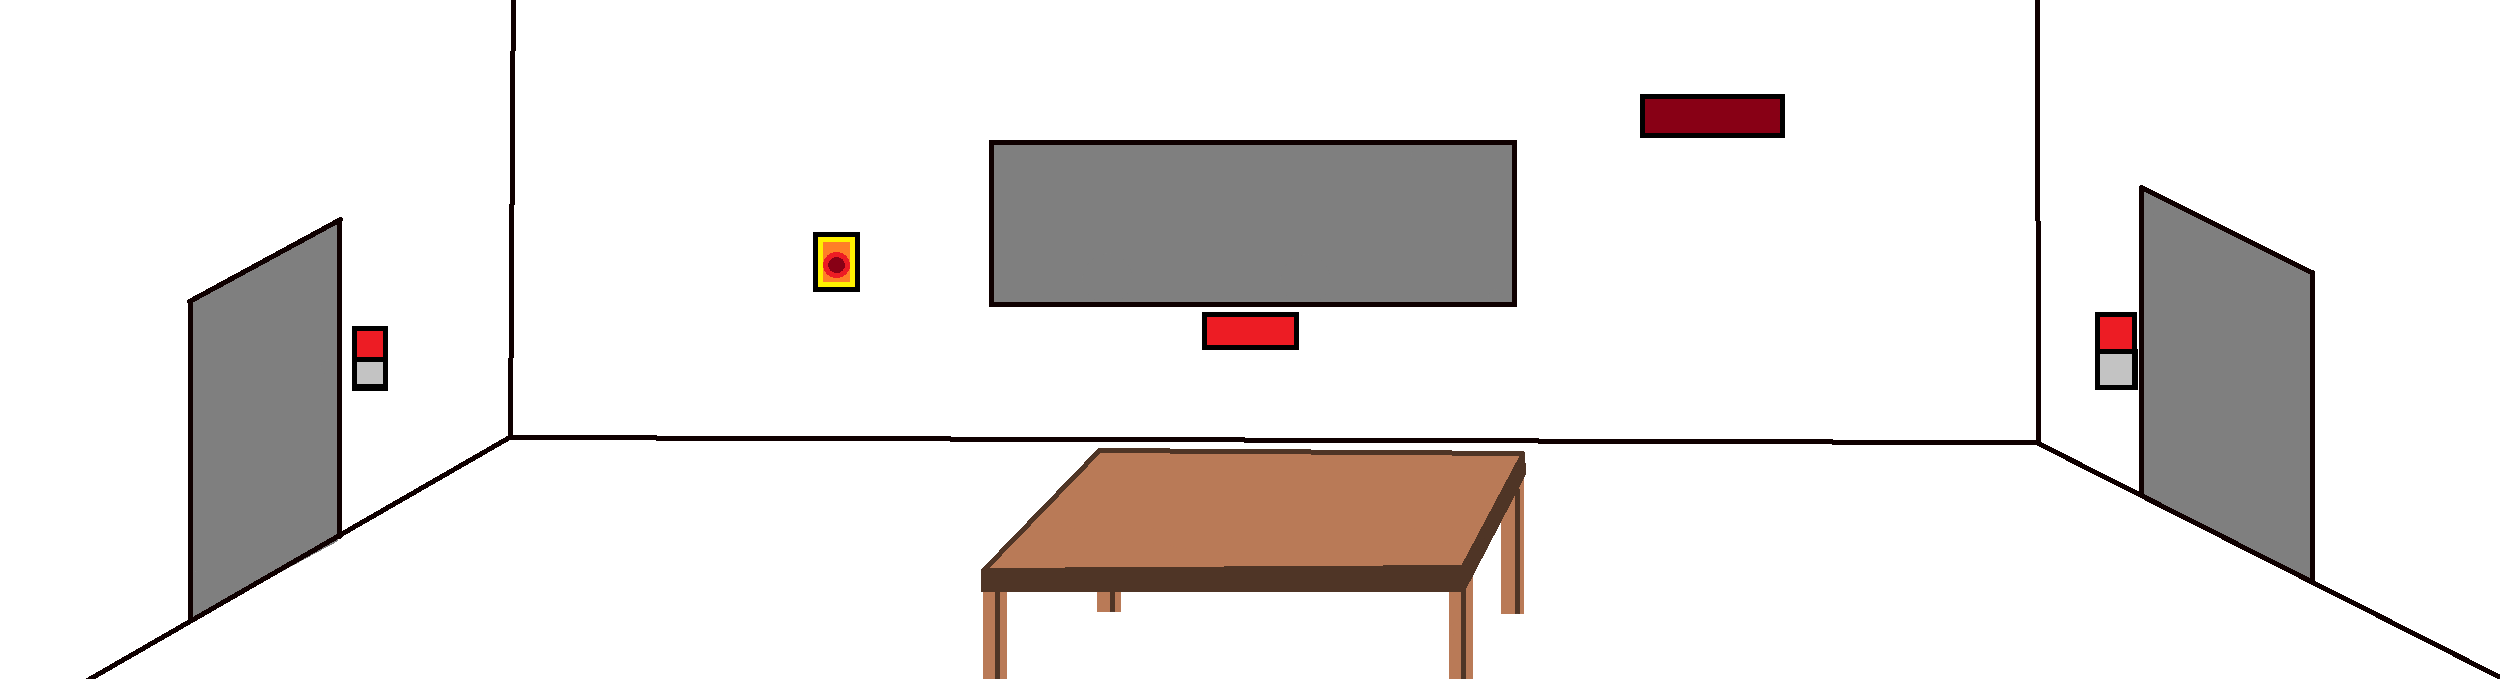
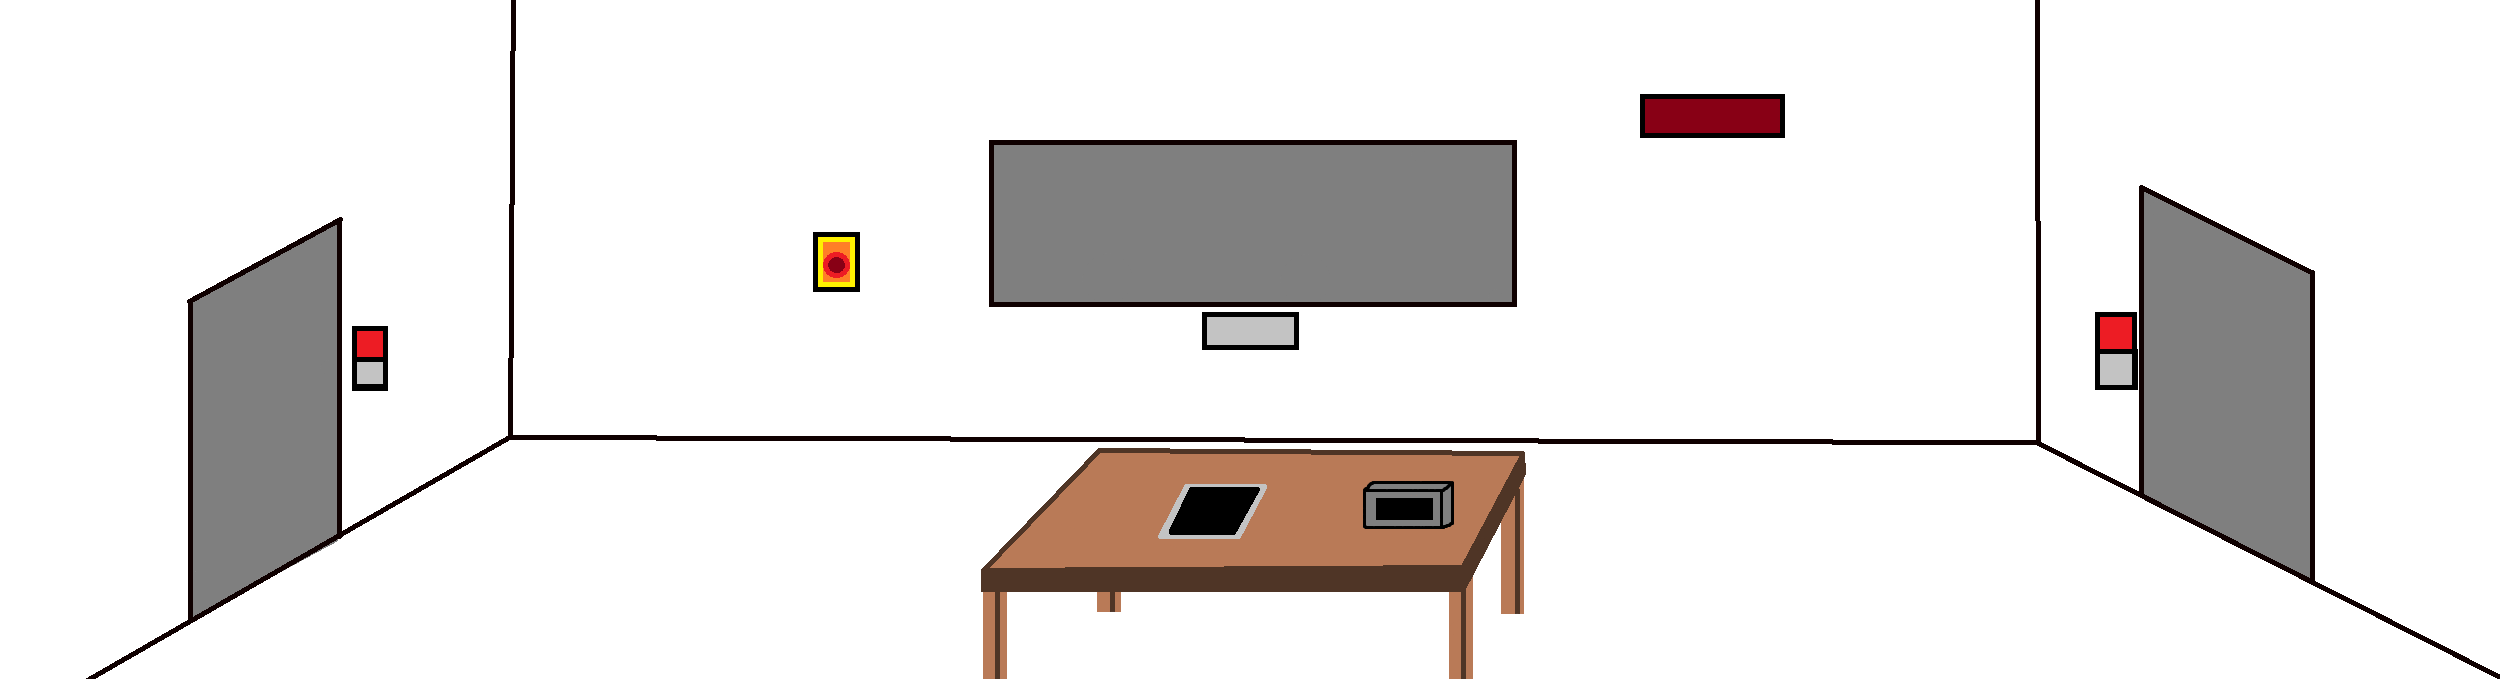
"Refactored Five Nights game component, updated routes and constants, and modified CSS and HTML files."

Changed region(s): [[0.468, 0.7113, 0.5928, 0.8041], [0.468, 0.4639, 0.5304, 0.5258]]

diff --git a/src/app/games/five nights/five-nights-1/five-nights-1.component.ts b/src/app/games/five nights/five-nights-1/five-nights-1.component.ts
@@ -26,6 +26,7 @@ export class FiveNights1Component implements OnInit, OnDestroy {
   camaras = { x: 1102, y: 660, width: 350, height: 150 };
   camarasOpened = { x: 1102, y: 660, width: 350, height: 150 };
   reloj = { x: 1642, y: 100, width: 142, height: 40 };
+  bateria = { x: 1387, y: 538, width: 35, height: 35 };
 
   timeString: string = '12:00';
   timeNumber: number = 0;
@@ -34,10 +35,29 @@ export class FiveNights1Component implements OnInit, OnDestroy {
   cameraOpen: boolean = false;
   cameraNumber: number = 0;
 
+  totalBattery: number = 100;
+  batteryLeft: number = 100;
+  bateryUsageNumber: number = 1;
+  batteryOut: boolean = false;
+
+  TIME_MILISECONDS:number = 1000; 
+  BATTERY_MILISECONDS:number = 5000; // 20% restante a 1000ms 
+  LIGHT_CONSUME_TIME:number = 0.1
+  DOOR_CLOSE_CONSUME_TIME:number = 0.25
+
   doors = {
-    rightDoor: false,
-    leftDoor: false,
-    centralDoor: false
+    rightDoor: {
+      opened: false,
+      light: false
+    },
+    leftDoor: {
+      opened: false,
+      light: false
+    },
+    centralDoor: {
+      opened: false,
+      light: false
+    }
   }
 
   private oficinaElement!: HTMLElement;
@@ -77,7 +97,10 @@ export class FiveNights1Component implements OnInit, OnDestroy {
     this.timeString = '12:00';
     this.timeNumber = 0;
     this.cameraNumber = 0;
+    this.batteryLeft = this.totalBattery;
+    this.batteryOut = false;
     this._startTimeCounting();
+    this._startBatteryLoss();
     this._startMouseMovement();
   }
 
@@ -93,11 +116,11 @@ export class FiveNights1Component implements OnInit, OnDestroy {
   useButtonDoor(doorId: number) {
     switch (doorId) {
       case 1:
-        this.doors.leftDoor = !this.doors.leftDoor
+        this.doors.leftDoor.opened = !this.doors.leftDoor.opened
 
         break;
       case 2:
-        this.doors.rightDoor = !this.doors.rightDoor
+        this.doors.rightDoor.opened = !this.doors.rightDoor.opened
         
         break;
     }
@@ -106,15 +129,15 @@ export class FiveNights1Component implements OnInit, OnDestroy {
   lightButtonDoor(doorId: number) {
     switch (doorId) {
       case 1:
-        this.doors.leftDoor = !this.doors.leftDoor
+        this.doors.leftDoor.light = !this.doors.leftDoor.light
 
         break;
       case 2:
-        this.doors.rightDoor = !this.doors.rightDoor
+        this.doors.rightDoor.light = !this.doors.rightDoor.light
         
         break;
       case 3:
-        this.doors.centralDoor = !this.doors.centralDoor
+        this.doors.centralDoor.light = !this.doors.centralDoor.light
         
         break;
     }
@@ -123,7 +146,10 @@ export class FiveNights1Component implements OnInit, OnDestroy {
   private _startTimeCounting() {
     setInterval(() => {
       this._timeIntervalToTimeString();
-    }, 1000);
+      if(this.timeString == '06:00') {
+        this.finishGame();
+      }
+    }, this.TIME_MILISECONDS);
   }
 
   private _startMouseMovement() {
@@ -203,5 +229,43 @@ export class FiveNights1Component implements OnInit, OnDestroy {
     if (event.key == 'W' || event.key == 'w') {
       this.openCamera();
     }
+  }
+
+  private _startBatteryLoss() {
+    const intervalId = setInterval(() => {
+      this.batteryLeft--;
+
+      let totalConsumption = 0;
+
+      // Sumar el consumo por puertas abiertas
+      if (this.doors.leftDoor.opened) {
+        totalConsumption += this.DOOR_CLOSE_CONSUME_TIME;
+      }
+      
+      if (this.doors.rightDoor.opened) {
+        totalConsumption += this.DOOR_CLOSE_CONSUME_TIME;
+      }
+      
+      // Sumar el consumo por luces encendidas
+      if (this.doors.leftDoor.light) {
+        totalConsumption += this.LIGHT_CONSUME_TIME;
+      }
+      
+      if (this.doors.rightDoor.light) {
+        totalConsumption += this.LIGHT_CONSUME_TIME;
+      }
+      
+      if (this.doors.centralDoor.light) {
+        totalConsumption += this.LIGHT_CONSUME_TIME;
+      }
+      
+      this.batteryLeft -= totalConsumption;
+      
+  
+      if (this.batteryLeft <= 0) {
+        this.batteryOut = true;
+        clearInterval(intervalId);
+      }
+    }, this.BATTERY_MILISECONDS);
   }
 }

diff --git a/src/app/games/five nights/five-nights-1/five-nights-1.component.html b/src/app/games/five nights/five-nights-1/five-nights-1.component.html
@@ -13,7 +13,17 @@
 
     <!-- Zona clicable -->
     <div
+      *ngIf="doors.leftDoor.opened"
       class="click-area opened"
+      (click)="useButtonDoor(1)"
+      [style.left.px]="puerta1.x"
+      [style.top.px]="puerta1.y"
+      [style.width.px]="puerta1.width"
+      [style.height.px]="puerta1.height"
+    ></div>
+    <div
+      *ngIf="!doors.leftDoor.opened"
+      class="click-area closed"
       (click)="useButtonDoor(1)"
       [style.left.px]="puerta1.x"
       [style.top.px]="puerta1.y"
@@ -22,6 +32,16 @@
     ></div>
 
     <div
+      *ngIf="doors.leftDoor.light"
+      class="click-area lights-on"
+      (click)="lightButtonDoor(1)"
+      [style.left.px]="puerta1Luz.x"
+      [style.top.px]="puerta1Luz.y"
+      [style.width.px]="puerta1Luz.width"
+      [style.height.px]="puerta1Luz.height"
+    ></div>
+    <div
+      *ngIf="!doors.leftDoor.light"
       class="click-area lights-off"
       (click)="lightButtonDoor(1)"
       [style.left.px]="puerta1Luz.x"
@@ -31,6 +51,16 @@
     ></div>
 
     <div
+      *ngIf="doors.rightDoor.opened"
+      class="click-area opened"
+      (click)="useButtonDoor(2)"
+      [style.left.px]="puerta2.x"
+      [style.top.px]="puerta2.y"
+      [style.width.px]="puerta2.width"
+      [style.height.px]="puerta2.height"
+    ></div>
+    <div
+      *ngIf="!doors.rightDoor.opened"
       class="click-area closed"
       (click)="useButtonDoor(2)"
       [style.left.px]="puerta2.x"
@@ -40,7 +70,17 @@
     ></div>
 
     <div
+      *ngIf="doors.rightDoor.light"
       class="click-area lights-on"
+      (click)="lightButtonDoor(2)"
+      [style.left.px]="puerta2Luz.x"
+      [style.top.px]="puerta2Luz.y"
+      [style.width.px]="puerta2Luz.width"
+      [style.height.px]="puerta2Luz.height"
+    ></div>
+    <div
+      *ngIf="!doors.rightDoor.light"
+      class="click-area lights-off"
       (click)="lightButtonDoor(2)"
       [style.left.px]="puerta2Luz.x"
       [style.top.px]="puerta2Luz.y"
@@ -49,6 +89,16 @@
     ></div>
 
     <div
+      *ngIf="doors.centralDoor.light"
+      class="click-area lights-on"
+      (click)="lightButtonDoor(3)"
+      [style.left.px]="pasilloLuz.x"
+      [style.top.px]="pasilloLuz.y"
+      [style.width.px]="pasilloLuz.width"
+      [style.height.px]="pasilloLuz.height"
+    ></div>
+    <div
+      *ngIf="!doors.centralDoor.light"
       class="click-area lights-off"
       (click)="lightButtonDoor(3)"
       [style.left.px]="pasilloLuz.x"
@@ -58,13 +108,23 @@
     ></div>
 
     <div
-      class="click-area"
+      class="camera-click-area"
       (click)="openCamera()"
       [style.left.px]="camaras.x"
       [style.top.px]="camaras.y"
       [style.width.px]="camaras.width"
       [style.height.px]="camaras.height"
     ></div>
+
+    <div
+      class="bateria"
+      [style.left.px]="bateria.x"
+      [style.top.px]="bateria.y"
+      [style.width.px]="bateria.width"
+      [style.height.px]="bateria.height"
+    >
+      {{ batteryLeft.toFixed(2) }}
+    </div>
 
     <div
       class="reloj"
@@ -95,7 +155,7 @@
     <div *ngIf="cameraNumber == 1"></div>
 
     <div
-      class="click-area"
+      class="camera-click-area"
       (click)="openCamera()"
       [style.left.px]="camarasOpened.x"
       [style.top.px]="camarasOpened.y"

diff --git a/src/app/games/five nights/five-nights-1/five-nights-1.component.css b/src/app/games/five nights/five-nights-1/five-nights-1.component.css
@@ -23,34 +23,61 @@
   padding: 10px;
 }
 
-.modal-camaras{
+.modal-camaras {
   width: 100%;
   height: 100%;
 }
 
+.camera-click-area,
 .click-area,
+.bateria,
 .reloj {
   position: absolute;
 }
 
-.click-area {
+.click-area,
+.camera-click-area {
   cursor: pointer;
 }
 
+.camera-click-area {
+  background: rgba(95, 95, 95, 0.449);
+}
+
 .opened {
-  background: rgba(51, 255, 0, 0.615); /* O "rgba(0,0,0,0)" para mayor compatibilidad */
+  background: rgba(
+    51,
+    255,
+    0,
+    0.615
+  ); /* O "rgba(0,0,0,0)" para mayor compatibilidad */
 }
 
 .closed {
-  background: rgba(255, 0, 0, 0.615); /* O "rgba(0,0,0,0)" para mayor compatibilidad */
+  background: rgba(
+    255,
+    0,
+    0,
+    0.615
+  ); /* O "rgba(0,0,0,0)" para mayor compatibilidad */
 }
 
-.lights-on{
-  background: rgba(206, 206, 206, 0.884); /* O "rgba(0,0,0,0)" para mayor compatibilidad */
+.lights-on {
+  background: rgba(
+    206,
+    206,
+    206,
+    0.884
+  ); /* O "rgba(0,0,0,0)" para mayor compatibilidad */
 }
 
-.lights-off{
-  background: rgba(206, 206, 206, 0.214); /* O "rgba(0,0,0,0)" para mayor compatibilidad */
+.lights-off {
+  background: rgba(
+    206,
+    206,
+    206,
+    0.214
+  ); /* O "rgba(0,0,0,0)" para mayor compatibilidad */
 }
 
 .reloj {
@@ -62,7 +89,16 @@
   font-family: fantasy;
 }
 
-.modal-camaras{
+.bateria {
+  display: flex;
+  color: yellow;
+  align-items: center;
+  justify-content: center;
+  font-size: 23px;
+  font-family: fantasy;
+}
+
+.modal-camaras {
   height: auto;
   width: 100%;
 }

diff --git a/src/app/app.routes.ts b/src/app/app.routes.ts
@@ -4,7 +4,7 @@ import { LolWordleGameComponent } from './games/league of legends/lol-wordle-gam
 import { BlackJackComponent } from './games/casino/black-jack/black-jack.component';
 import { TragaperrasComponent } from './games/casino/tragaperras/tragaperras.component';
 import { FiveNights1Component } from './games/five nights/five-nights-1/five-nights-1.component';
-import { GLOBAL_CONSTANTES } from './five-nights-constants';
+import { GLOBAL_CONSTANTES } from './GLOBAL_CONST';
 
 export const routes: Routes = [
   {

diff --git a/src/app/componentes/header/header.component.ts b/src/app/componentes/header/header.component.ts
@@ -1,7 +1,7 @@
 import { CommonModule } from '@angular/common';
 import { Component } from '@angular/core';
 import { Router } from '@angular/router';
-import { GLOBAL_CONSTANTES } from '../../five-nights-constants';
+import { GLOBAL_CONSTANTES } from '../../GLOBAL_CONST';
 
 @Component({
   selector: 'app-header',
